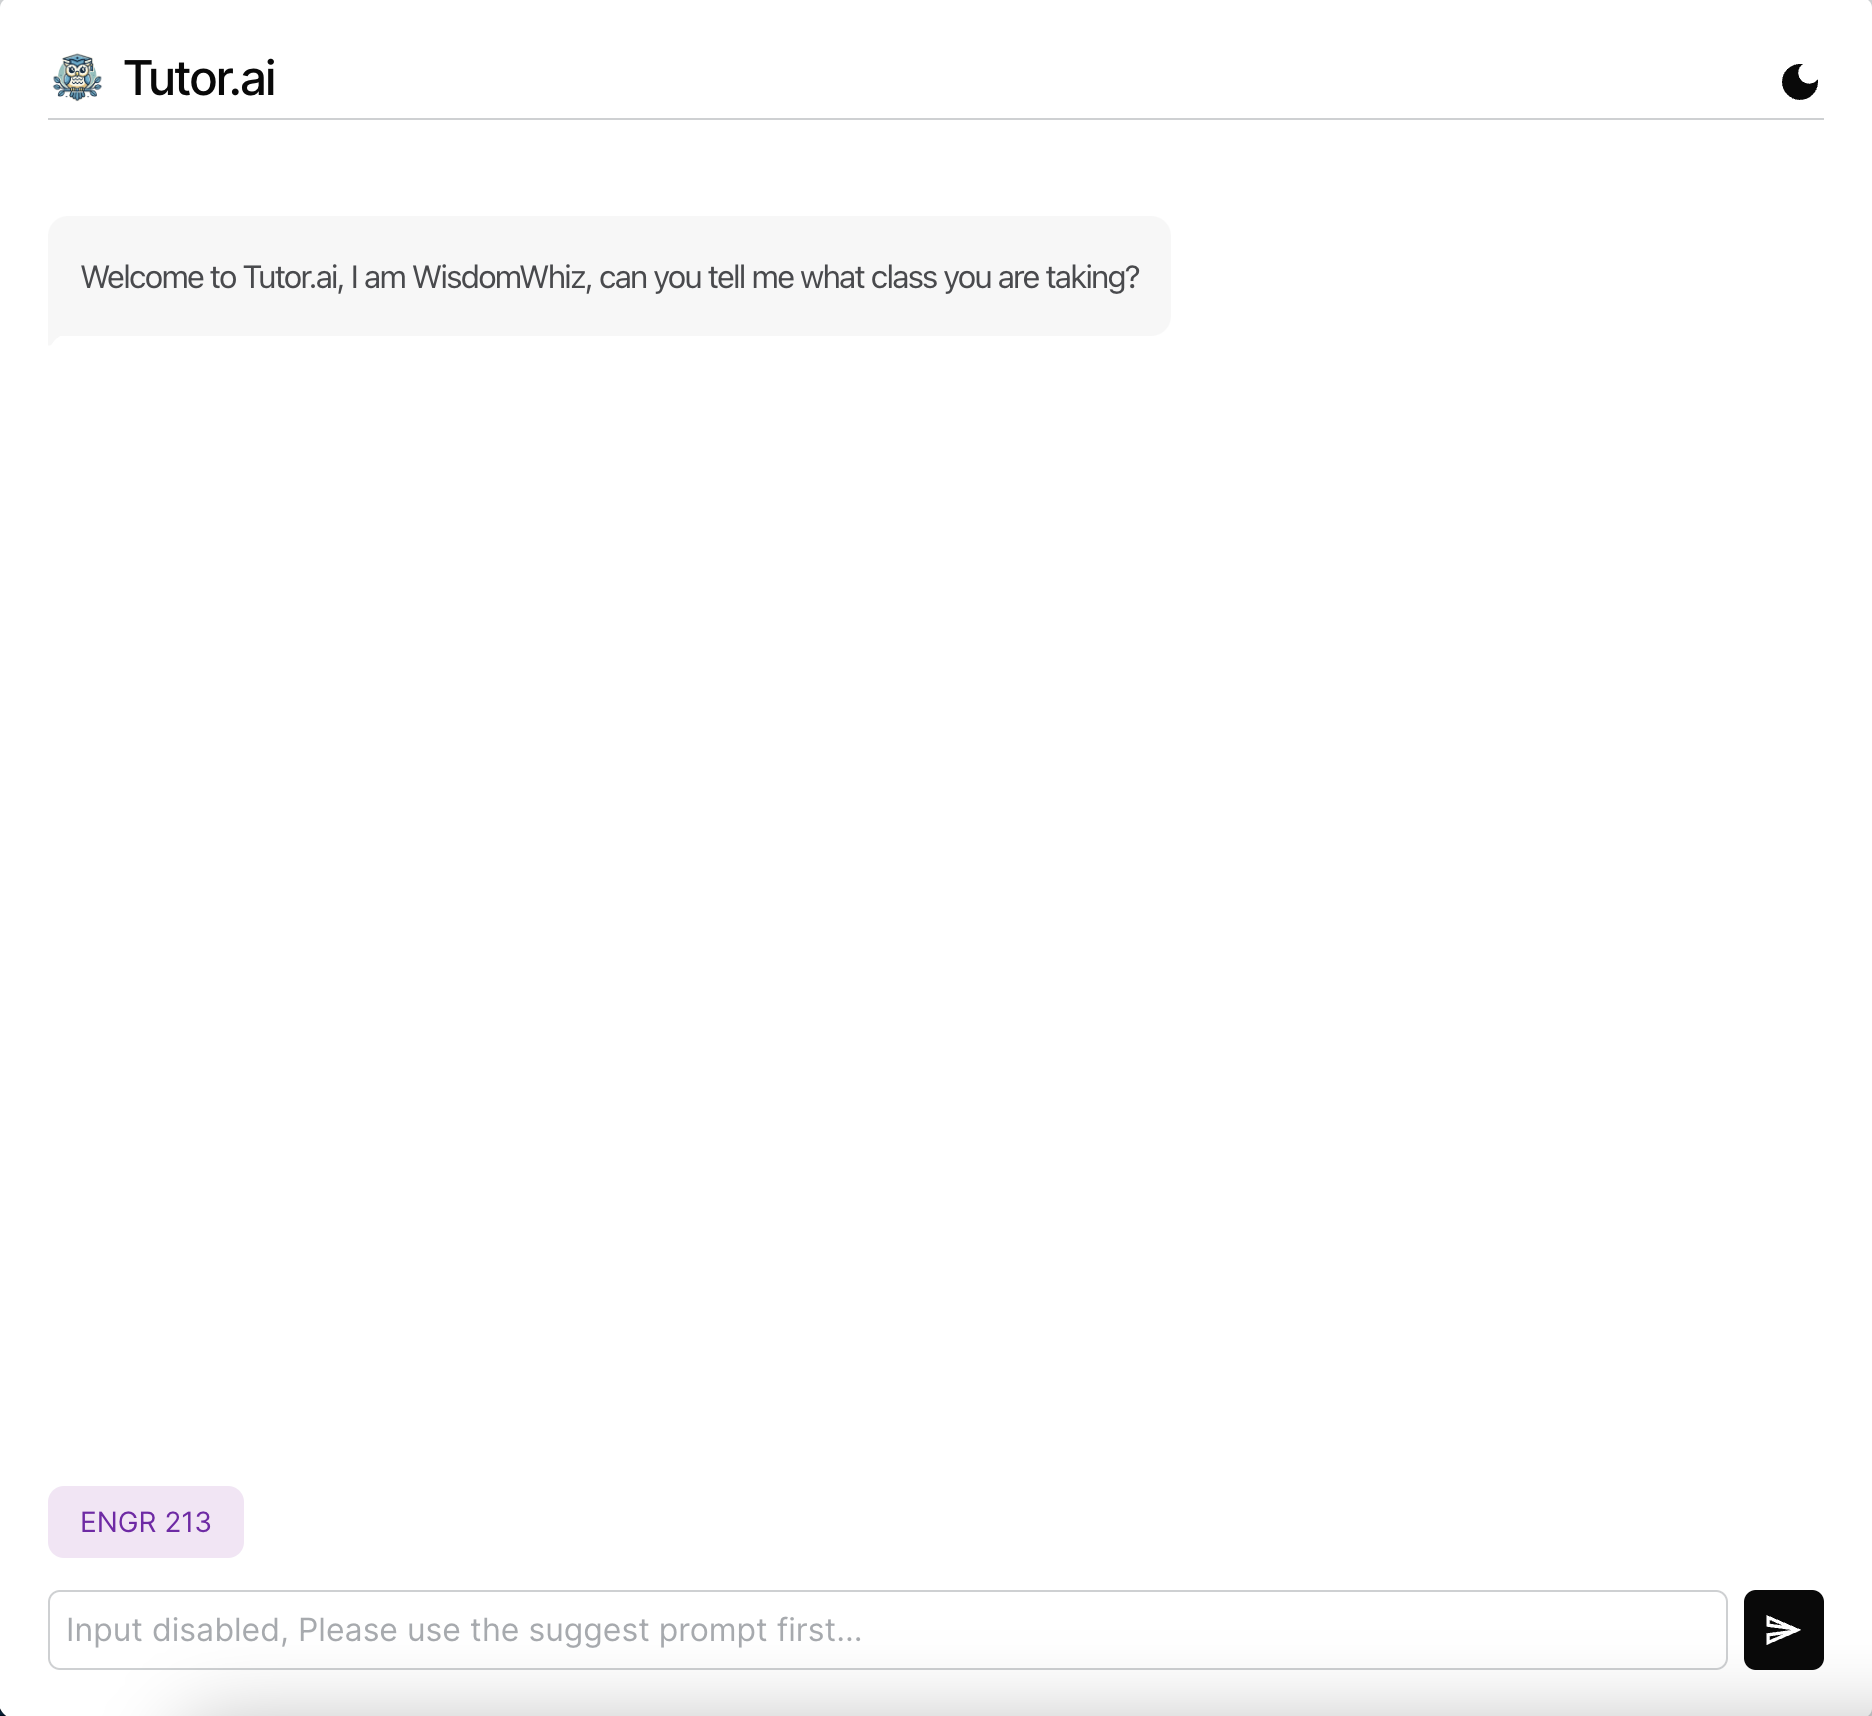
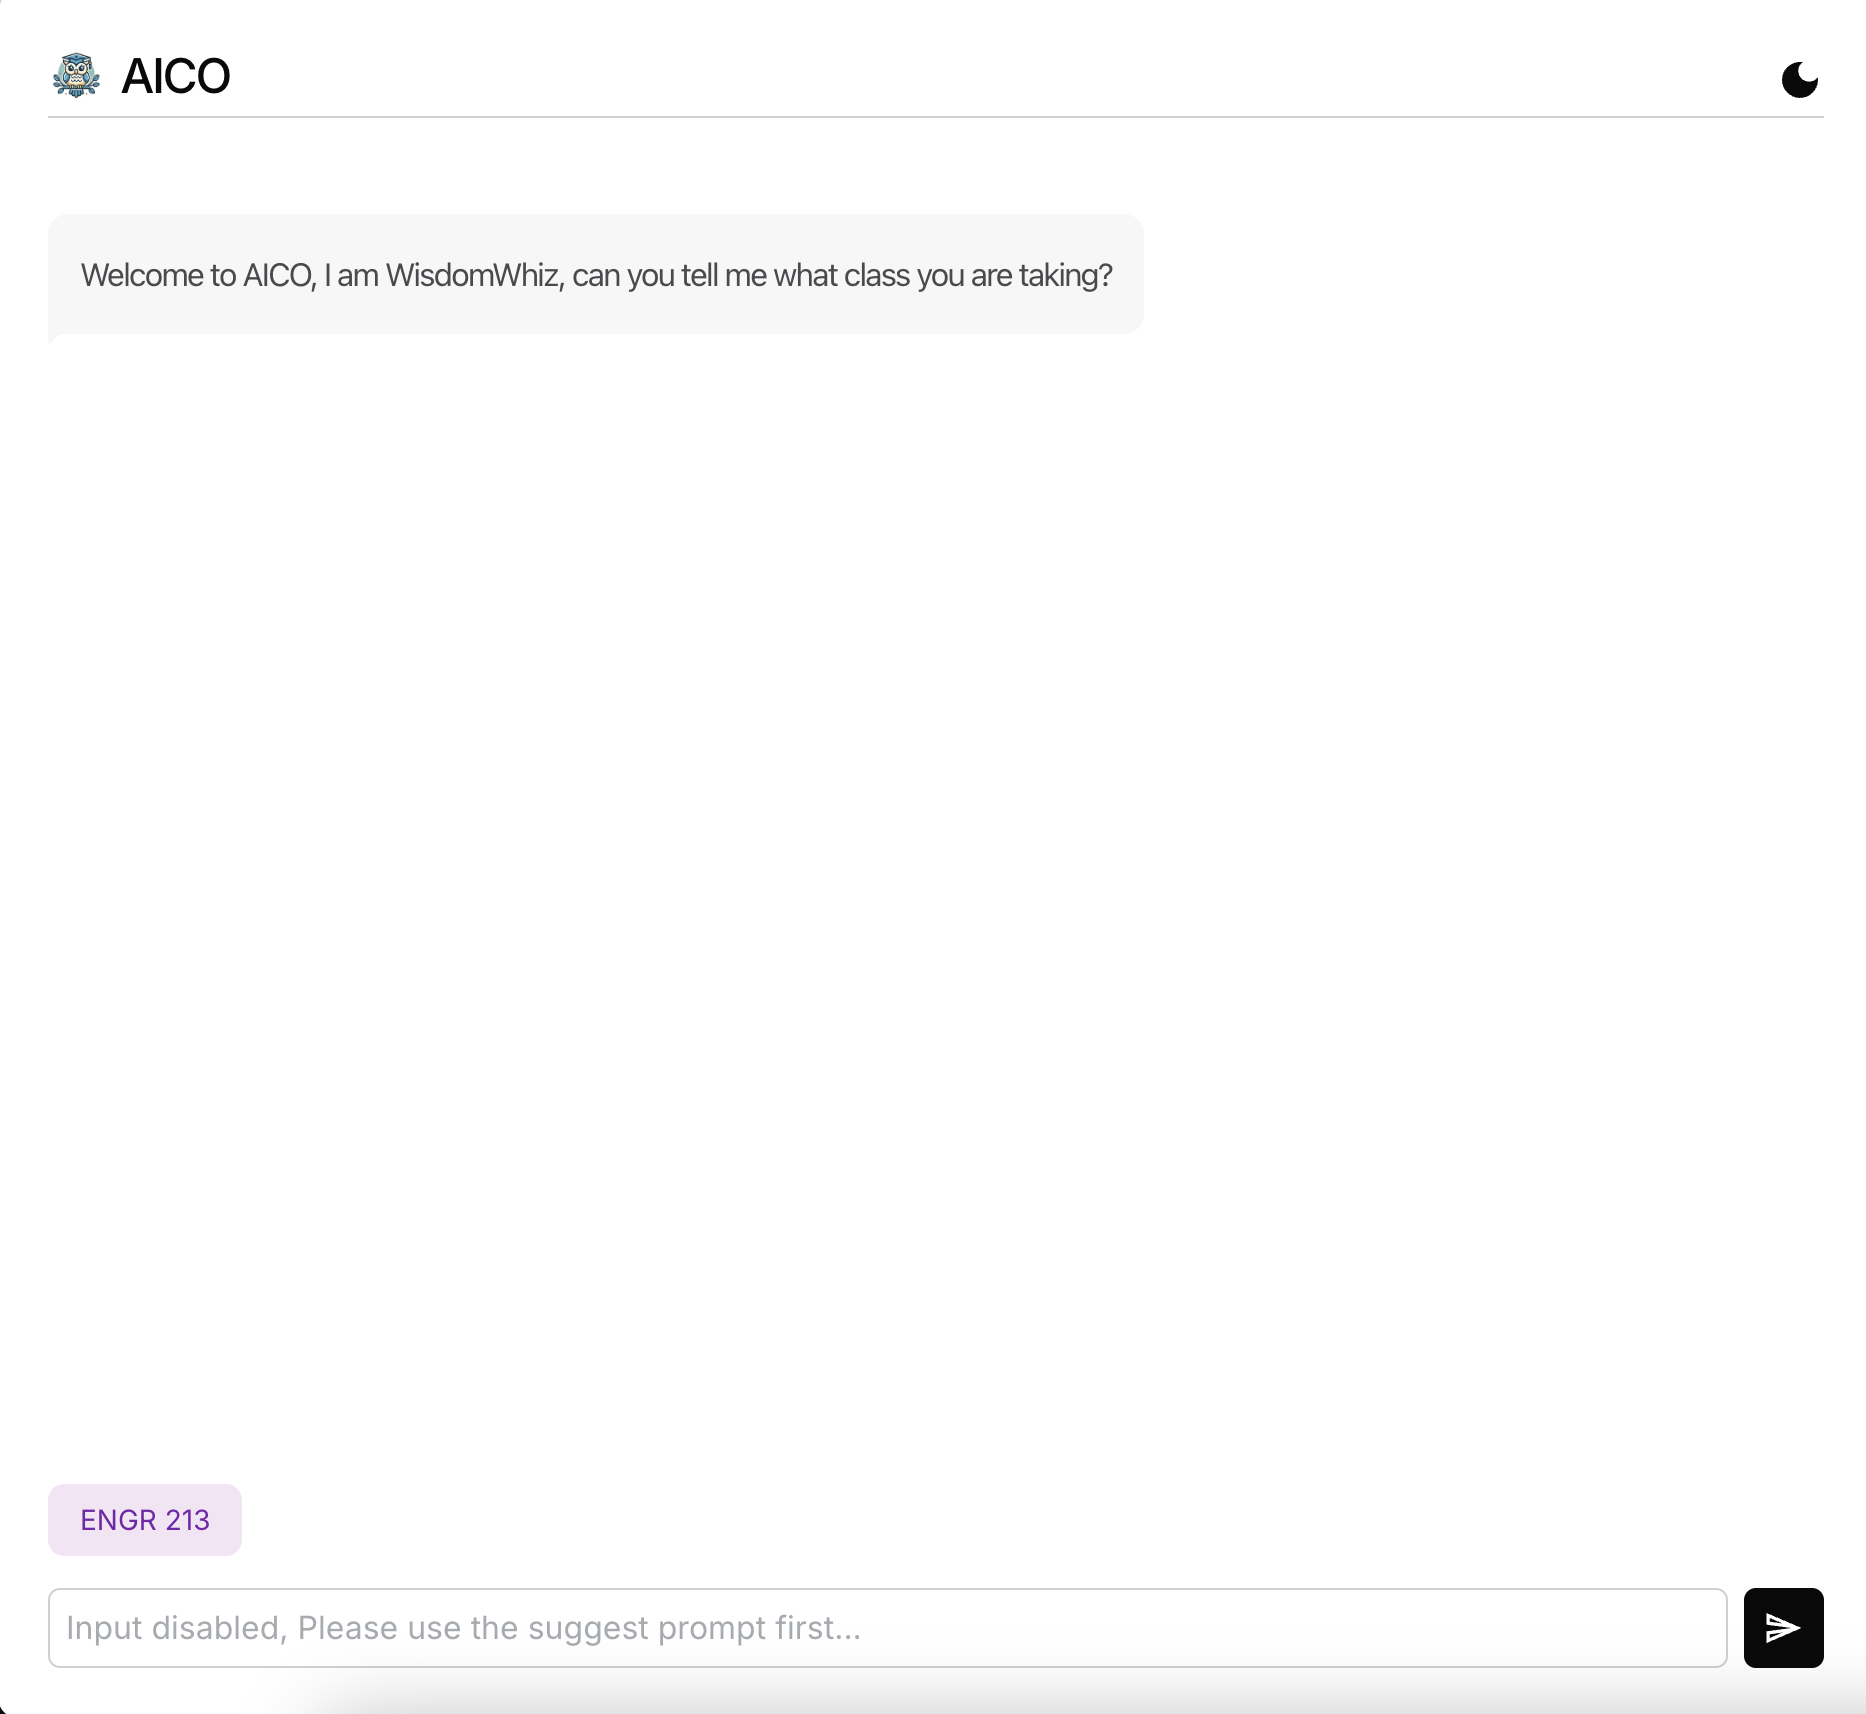
Llm (#38)
* revise prompt for generated JSON

* revise prompt for generated JSON

* Add navbar dropdown

* read for opensource

diff --git a/frontend/pages/ai_chat.tsx b/frontend/pages/ai_chat.tsx
@@ -14,7 +14,7 @@ const AI_Chat: NextPage = () => {
 
   const init_messages: Message[] = [
     {
-      id: crypto.randomUUID(), content: "Welcome to Tutor.ai, I am WisdomWhiz, can you tell me what class you are taking?", role: 'assistant'
+      id: crypto.randomUUID(), content: "Welcome to AICO, I am WisdomWhiz, can you tell me what class you are taking?", role: 'assistant'
     }
   ]
 
@@ -38,7 +38,7 @@ const AI_Chat: NextPage = () => {
   ]
 
   const { append, messages, input, handleInputChange, handleSubmit, setMessages } = useChat(
-    { api: "http://127.0.0.1:5000/api/ai", 
+    { api: "https://ai.sfsu-miclab.org/api/ai", 
       initialMessages: init_messages, 
       streamMode: 'text',
       headers: {"Content-Type":"application/json"}}
@@ -85,13 +85,14 @@ const AI_Chat: NextPage = () => {
         <section className='chatbot-section flex flex-col origin:w-[800px] w-full origin:h-[735px] h-full rounded-md p-2 md:p-6'>
           <div className='chatbot-header'>
             <div className='flex justify-between'>
+		<a href="../">
               <div className='flex items-center gap-2 mb-1'>
                 <img src={"../owl.jpg"} width="5%" alt=''/>
                 {/* <svg width="24" height="25" viewBox="0 0 24 25">
                   <path d="M20 9.96057V7.96057C20 6.86057 19.1 5.96057 18 5.96057H15C15 4.30057 13.66 2.96057 12 2.96057C10.34 2.96057 9 4.30057 9 5.96057H6C4.9 5.96057 4 6.86057 4 7.96057V9.96057C2.34 9.96057 1 11.3006 1 12.9606C1 14.6206 2.34 15.9606 4 15.9606V19.9606C4 21.0606 4.9 21.9606 6 21.9606H18C19.1 21.9606 20 21.0606 20 19.9606V15.9606C21.66 15.9606 23 14.6206 23 12.9606C23 11.3006 21.66 9.96057 20 9.96057ZM7.5 12.4606C7.5 11.6306 8.17 10.9606 9 10.9606C9.83 10.9606 10.5 11.6306 10.5 12.4606C10.5 13.2906 9.83 13.9606 9 13.9606C8.17 13.9606 7.5 13.2906 7.5 12.4606ZM16 17.9606H8V15.9606H16V17.9606ZM15 13.9606C14.17 13.9606 13.5 13.2906 13.5 12.4606C13.5 11.6306 14.17 10.9606 15 10.9606C15.83 10.9606 16.5 11.6306 16.5 12.4606C16.5 13.2906 15.83 13.9606 15 13.9606Z" />
                 </svg> */}
-                <h1 className='chatbot-text-primary text-xl md:text-2xl font-medium' style={{margin:'0'}}>Tutor.ai</h1>
-              </div>
+                <h1 className='chatbot-text-primary text-xl md:text-2xl font-medium' style={{margin:'0'}}>AICO</h1>
+              </div></a>
               <div className='flex gap-1'>
                 <ThemeButton />
               </div>

diff --git a/frontend/components/index/navbar/navbar.tsx b/frontend/components/index/navbar/navbar.tsx
@@ -36,7 +36,7 @@ export const Nav = () => {
             <AcmeLogo ></AcmeLogo >
 
             <Text b color="inherit" hideIn="xs">
-               <Link href="/" style={{ color: 'inherit', textDecoration: 'none' }} >Tutor.ai</Link>
+               <Link href="/" style={{ color: 'inherit', textDecoration: 'none' }} >AICO</Link>
             </Text>
             <Navbar.Content
                hideIn="sm"
@@ -98,11 +98,19 @@ export const Nav = () => {
                      >
                         <Link href='#feature2' css={{'color':'black'}}>AI-Driven Step-by-step Problem Solving</Link>
                      </Dropdown.Item>
+                     <Dropdown.Item
+                        key="Al-Assisted Practice Generation"
+                        showFullDescription
+                        description="Identifies knowledge gaps from your mistakes. Creates Ouiz/Exam practice from yourcourse material."
+                        icon={icons.flash}
+                     >
+                        <Link href='#feature3' css={{'color':'black'}}>Al-Assisted Practice Generation</Link>
+                     </Dropdown.Item>
 
                   </Dropdown.Menu>
                </Dropdown>
                <Navbar.Link href="#technologies">Technologies</Navbar.Link>
-               <Navbar.Link href="https://sites.google.com/my.smccd.edu/tutorai/team">Teams</Navbar.Link>
+               {/* <Navbar.Link href="https://sites.google.com/my.smccd.edu/tutorai/team">Teams</Navbar.Link> */}
 
             </Navbar.Content>
          </Navbar.Brand>

diff --git a/frontend/components/index/trusted/index.tsx b/frontend/components/index/trusted/index.tsx
@@ -40,7 +40,7 @@ export const Trusted = () => {
                weight="normal"
                size={'$2xl'}
             >
-               Tutor.AI transforms personalized learning through AI-Powered Class Preview and Review, along with AI-Driven Step-by-Step Problem Solving. Our platform adapts to individual student needs, delivering instant analysis and explanations for errors, and offering precise guidance through each problem-solving step, enhancing academic achievement with accessibility and efficiency
+               AICO transforms personalized learning through AI-Powered Class Preview and Review, along with AI-Driven Step-by-Step Problem Solving and Al-Assisted Practice Generation. Our platform adapts to individual student needs, delivering instant analysis and explanations for errors, and offering precise guidance through each problem-solving step, enhancing academic achievement with accessibility and efficiency
 
             </Text>
             <Grid.Container

diff --git a/frontend/pages/index.tsx b/frontend/pages/index.tsx
@@ -9,7 +9,7 @@ import {Technologies} from '../components/index/technologies';
 import {Box} from '../components/styles/box';
 import {Features1} from '../components/index/features1';
 import {Features2} from '../components/index/features2';
-// import {Features3} from '../components/index/features3';
+import {Features3} from '../components/index/features3';
 
 //
 //import {Plans} from '../components/index/plans';
@@ -28,7 +28,7 @@ const Home: NextPage = () => {
             <Trusted />
             <Features1 />
             <Features2 />
-            {/* <Features3 /> */}
+            <Features3 />
             <Technologies />
             <Footer />
          </Box>

diff --git a/frontend/components/index/features3/index.tsx b/frontend/components/index/features3/index.tsx
@@ -9,6 +9,7 @@ export const Features3 = () => {
    return (
       <>
          <Flex
+            id='feature3'
             direction={'column'}
             css={{
                'gap': '1rem',
@@ -30,7 +31,7 @@ export const Features3 = () => {
             <Flex direction="column" css={{ width: '50%' }}>
                <Text span css={{color: '$blue600'}}>
                </Text>
-               <Text h3 css={{fontSize: '$4xl'}}>Using AI to Prepare for Exam/Quiz</Text>
+               <Text h3 css={{fontSize: '$4xl'}}>Al-Assisted Practice Generation</Text>
 
                <Text
                   span

diff --git a/frontend/components/index/hero/index.tsx b/frontend/components/index/hero/index.tsx
@@ -52,7 +52,7 @@ export const Hero = () => {
                         display: 'inline',
                      }}
                   >
-                     Tutor.ai turns your  {' '}
+                     AICO turns your  {' '}
                   </Text>
 
                   <Text
@@ -119,7 +119,7 @@ export const Hero = () => {
                      href="ai_chat"
                   >
                      <Button>
-                        Try Tutor.ai
+                        Try AICO
                      </Button>
                   </Link>
 

diff --git a/frontend/components/index/features2/index.tsx b/frontend/components/index/features2/index.tsx
@@ -30,7 +30,7 @@ export const Features2 = () => {
             }}
          >
             <Flex align={'center'} css={{ width: '50%' }}>
-               <FeatureIcon src='./feature2WF.jpg' style={{width:'100%'}}/>
+               <FeatureIcon src='feature2WF.jpg' style={{width:'100%'}}/>
             </Flex>
             <Flex align={'end'} direction="column" css={{ width: '50%', alignItems: 'flex-end' }}>
                <Text span css={{color: '$blue600'}}>

diff --git a/frontend/components/index/features1/index.tsx b/frontend/components/index/features1/index.tsx
@@ -89,7 +89,7 @@ export const Features1 = () => {
                </Flex>
             </Flex>
             <Flex align={'end'} css={{ width: '50%' }}>
-               <FeatureIcon src="./feature1WF.jpg" style={{ width: '100%' }} />
+               <FeatureIcon src="feature1WF.jpg" style={{ width: '100%' }} />
             </Flex>
          </Flex>
          <Divider css={{ position: 'absolute', inset: '0p', left: '0', mt: '$2' }} />

diff --git a/frontend/components/index/technologies/index.tsx b/frontend/components/index/technologies/index.tsx
@@ -21,7 +21,7 @@ export const Technologies = () => {
             }}
          >
             <Text h1 css={{textAlign: 'center', fontSize: '$4xl'}}>
-               Backend Technologies,
+               Backend Technologies:
                <br>
                </br>
                Retrieval-Augmented Generation (RAG) and Finetuning

diff --git a/frontend/pages/_document.tsx b/frontend/pages/_document.tsx
@@ -30,7 +30,7 @@ class MyDocument extends Document {
                rel="stylesheet"
             />
             <Head>{CssBaseline.flush()}</Head>
-
+           
             <body>
                <Main />
                <NextScript />

diff --git a/frontend/next.config.js b/frontend/next.config.js
@@ -2,8 +2,8 @@
 const nextConfig = {
   reactStrictMode: true,
   swcMinify: true,
-  output: 'export',
   trailingSlash: true,
 }
 
 module.exports = nextConfig
+
